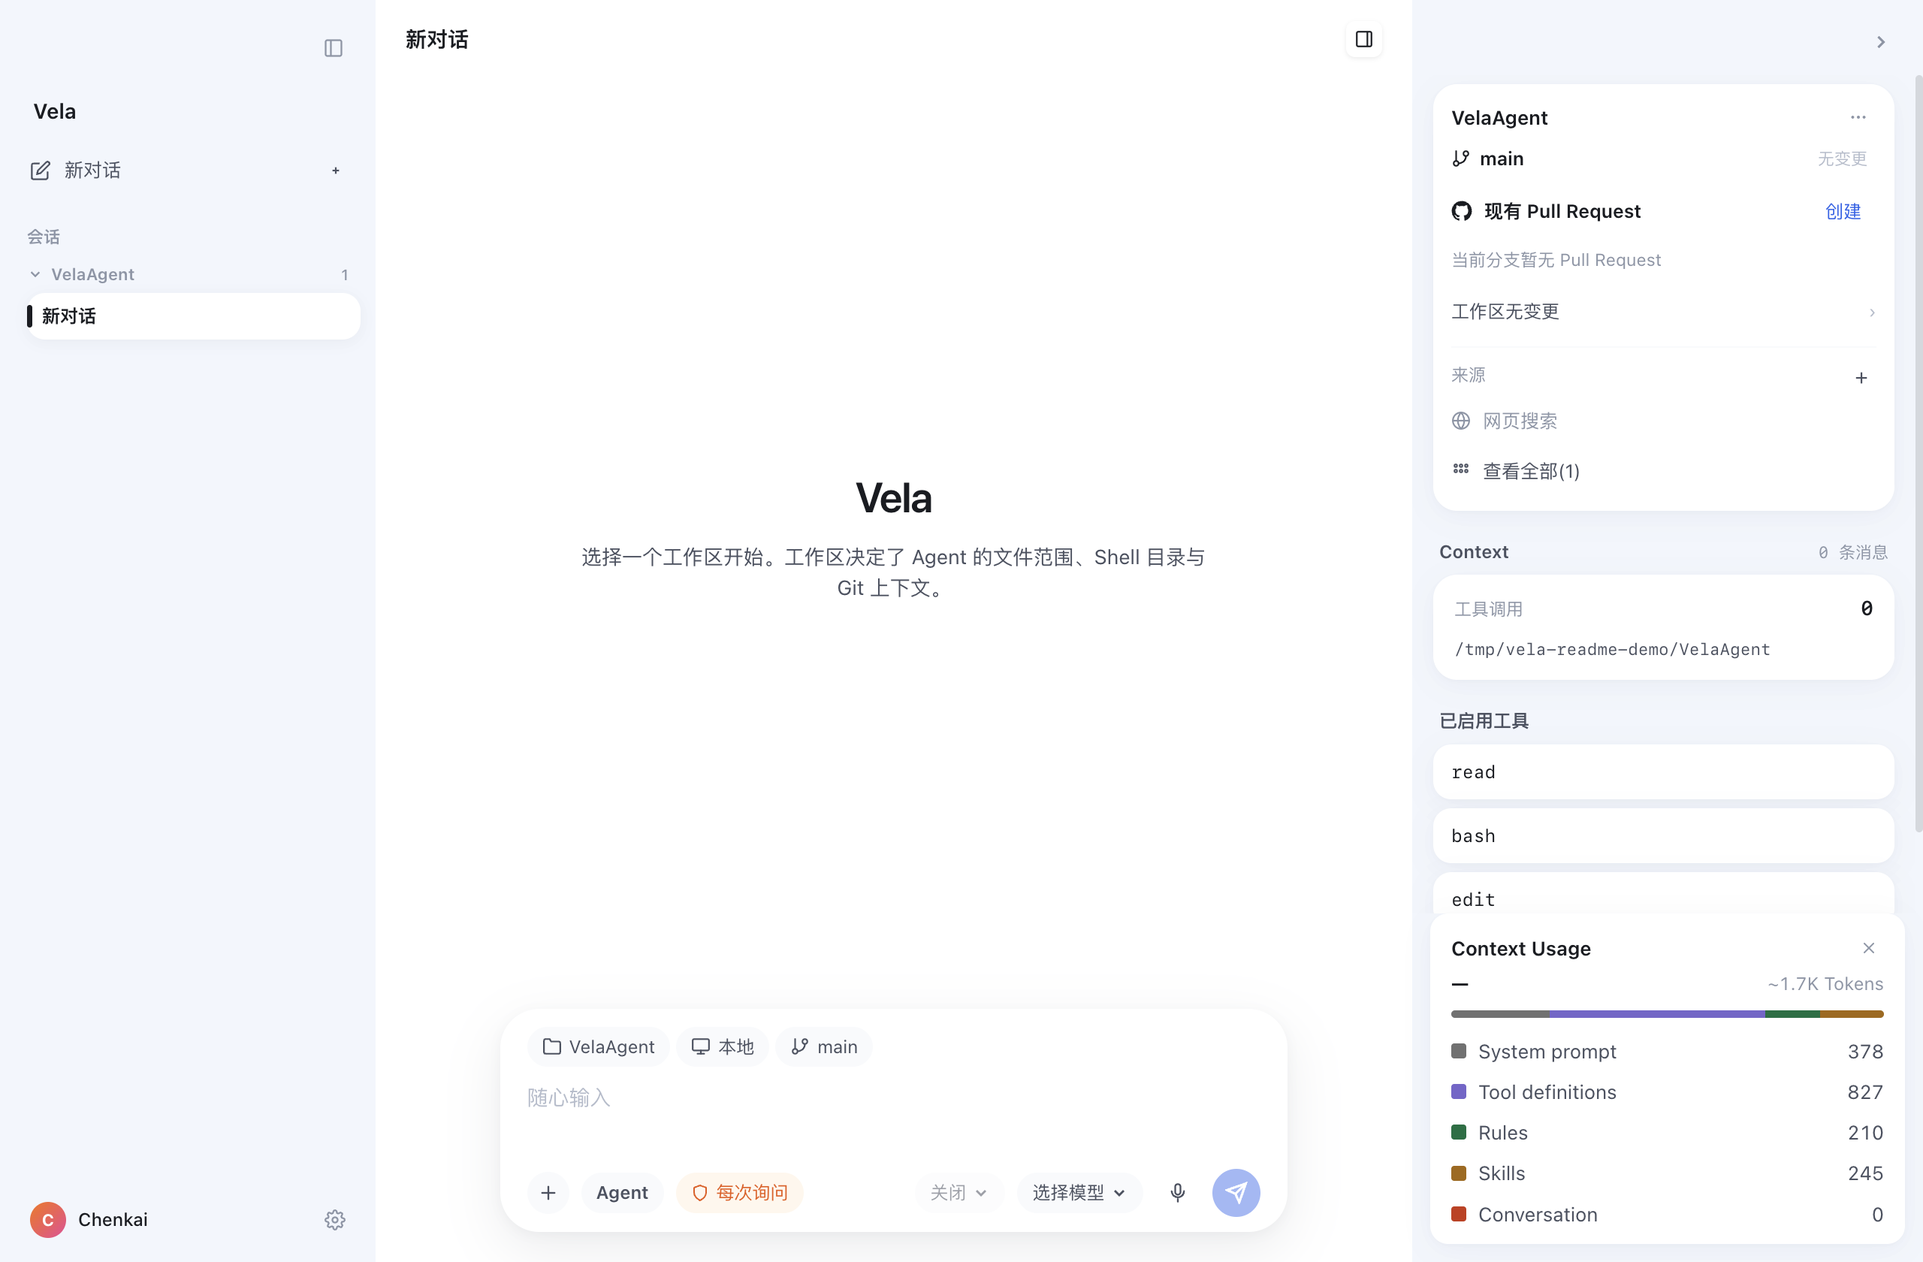
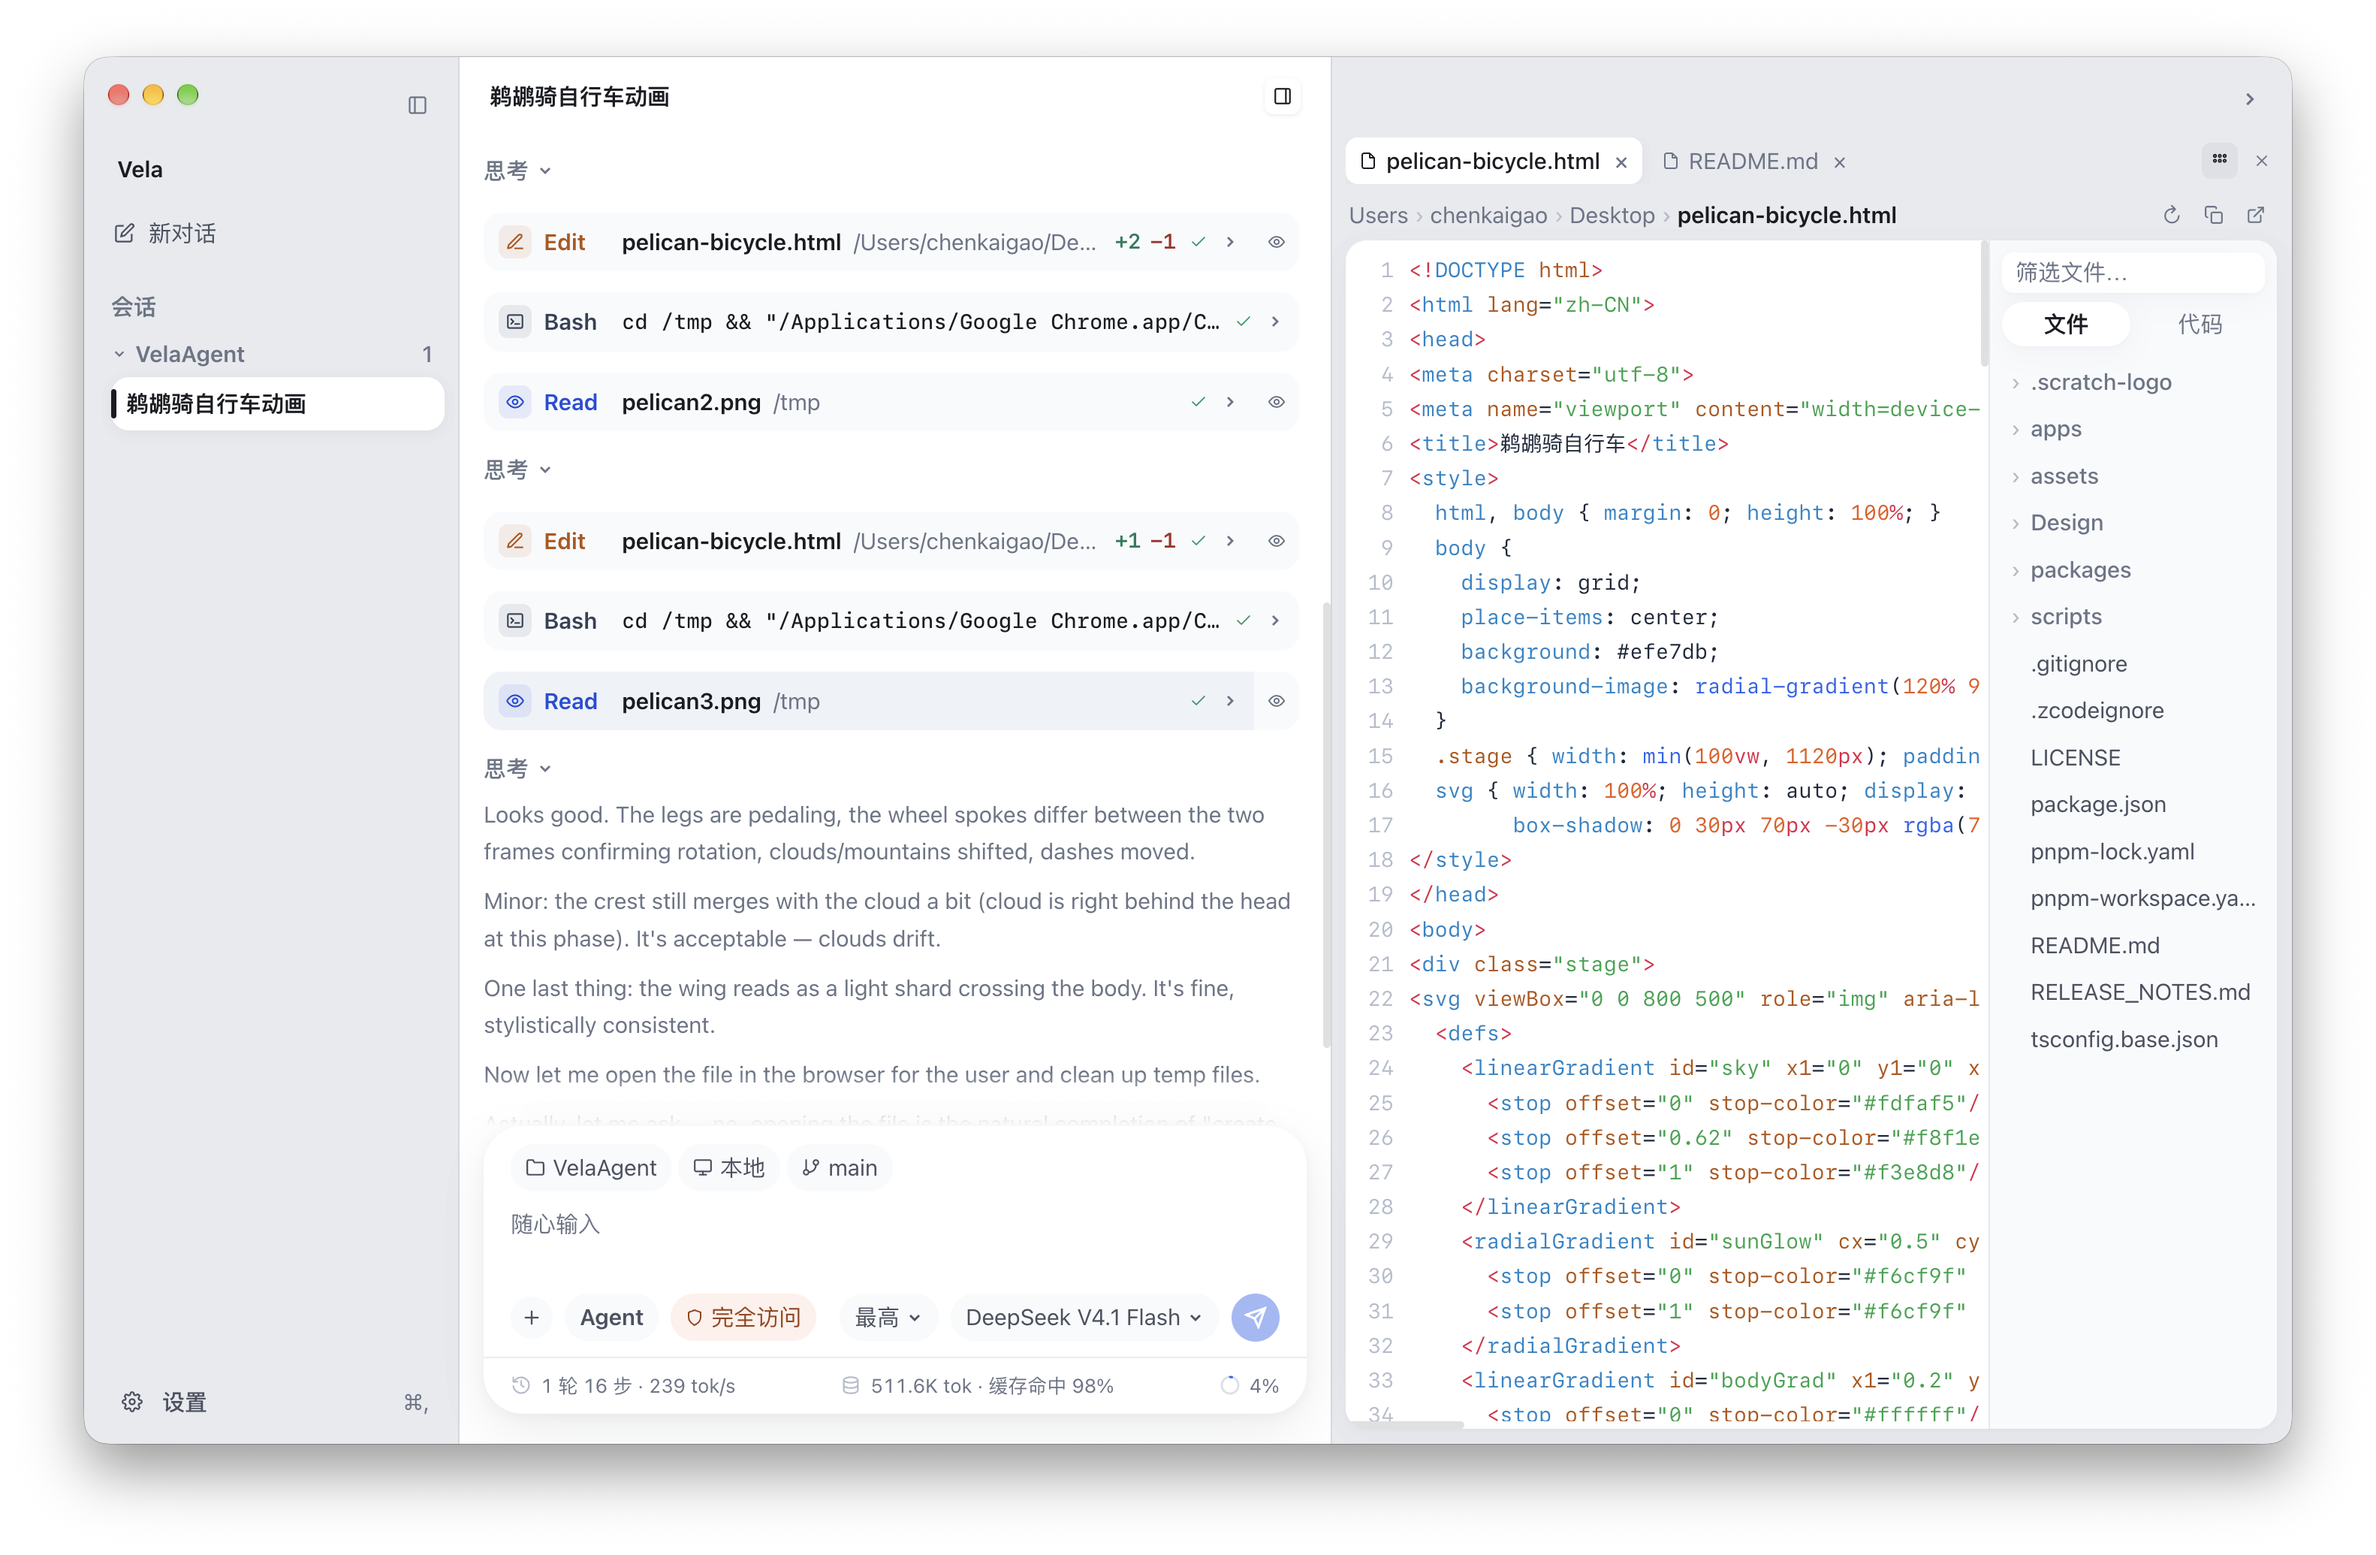
docs: refresh README with product screenshots

diff --git a/README.md b/README.md
@@ -2,13 +2,13 @@
 
 **在你选定的代码仓库中工作的桌面 AI 编程助手。**
 
-让 Agent 理解项目、整理计划、修改和运行代码；你可以在同一窗口查看执行记录、Git 改动与权限请求。
+让 Agent 理解项目、制定计划、修改并运行代码；执行过程、文件变化和权限请求都能在同一窗口查看。
 
 <p align="center">
-  <img src="./assets/readme/vela-desktop.png" width="100%" alt="Vela 桌面界面：左侧会话列表，中间 Agent 对话区，右侧工作区 Git、Pull Request 与上下文面板。" />
+  <a href="./assets/readme/vela-desktop.png"><img src="./assets/readme/vela-desktop.png" width="100%" alt="Vela 工作界面：Agent 对话与工具调用位于中间会话区，HTML 文件在右侧编辑器中打开。" /></a>
 </p>
 
-[快速开始](#快速开始) · [工作方式](#工作方式) · [权限与本地数据](#权限与本地数据) · [开发指南](#开发指南)
+[产品实景](#产品实景) · [快速开始](#快速开始) · [权限与本地数据](#权限与本地数据) · [开发指南](#开发指南)
 
 ## 工作方式
 
@@ -16,6 +16,32 @@
 - **在真实工作区中操作：** 打开本机项目目录，或使用独立的 Git worktree。工作区决定 Agent 的文件范围、Shell 目录和 Git 上下文。
 - **随时检查改动：** 查看工具调用和结果、Git 差异与暂存状态，并查看或创建当前分支的 Pull Request。
 - **保留工作上下文：** 会话会在应用重启后恢复；模型、思考强度、上下文用量和 Skill 活动都能在界面中查看。
+
+## 产品实景
+
+### 任务执行与审阅
+
+从任务说明到交付结果，查看 Agent 的答复、文件改动摘要、工具调用和上下文用量。
+
+<p align="center">
+  <a href="./assets/readme/vela-task-review.png"><img src="./assets/readme/vela-task-review.png" width="100%" alt="Vela 任务完成界面：展示用户需求、Agent 的交付说明、文件改动摘要，以及右侧工具调用和上下文用量。" /></a>
+</p>
+
+### 模型与账号
+
+在设置中管理模型提供方，并按提供方支持的方式登录或填写 API 密钥。
+
+<p align="center">
+  <a href="./assets/readme/vela-model-providers.png"><img src="./assets/readme/vela-model-providers.png" width="100%" alt="Vela 模型与账号设置：可搜索提供方，并查看登录状态、OAuth 登录或填写 API 密钥等选项。" /></a>
+</p>
+
+### 外观与语言
+
+在浅色和深色外观中选择配色主题，并在简体中文与 English 界面之间切换。
+
+<p align="center">
+  <a href="./assets/readme/vela-themes.png"><img src="./assets/readme/vela-themes.png" width="100%" alt="Vela 外观设置：展示三种浅色主题、三种深色主题、系统外观选项和中英文语言切换。" /></a>
+</p>
 
 ## 快速开始
 
